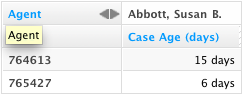
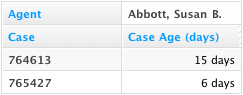
Fixed typos & screenshots in hyperlinked labels post

diff --git a/_posts/2011-01-13-adding-hyperlinks-to-attribute.md b/_posts/2011-01-13-adding-hyperlinks-to-attribute.md
@@ -1,16 +1,16 @@
 ---
-title: Adding Hyperlink to Your Attributes
+title: Adding Hyperlinks to Your Attributes
 excerpt: A short guide to using custom MAQL DDL to add hyperlinks your report headers, which can integrate with external applications
 layout: post
 ---
 
 # {{ page.title }}
 
-When analyzing data from online applications (Salesforce, Zendesk, etc.) it makes a lot of sense to set up some attributes to be clickable hyperlinks leading back to the original data. Take this example of Susan's open support tickets in Zendesk, along with the age of the tickets:
+When analyzing data from online applications (Salesforce, Zendesk, etc.), it makes a lot of sense to set up some attributes to be clickable hyperlinks leading back to the original data. Take this *example* of Susan's open support tickets in Zendesk, along with the age of the tickets:
 
 ![Open Tickets]({{ site.root }}/images/posts/2011-01-13-open-tickets.png)
 
-Wouldn't it be nice if you could click on the ID of the individual support ticket and open it directly back in Zendesk? Well let's have a look how we can get this done.
+Wouldn't it be nice if you could click on the ID of the individual support ticket and open it directly back in the original application? Well let's have a look at how we can get this done.
 
 First, we'll need to extend our original data with a new column `URL` containing the link for each ticket:
 
@@ -61,6 +61,8 @@ ExecuteMaql(maqlFile="update.maql");
 TransferData();
 {% endhighlight %}
 
-The same report as before now shows hyperlinks on each ticket ID that can be clicked to open a new window with the original ticket in Zendesk. If the window doesn't open for you, your browser is probably blocking pop-up windows and you might need to allow `secure.gooddata.com` to open popups (below is an example from Chrome).
+The same report as before now shows hyperlinks on each ticket ID that can be clicked to open a new window with the original ticket in Zendesk. 
 
-![Allow Popups]({{ site.root }}/images/posts/2011-01-13-allow-popups.png)
+![Hyperlinked Open Tickets]({{ site.root }}/images/posts/2011-01-13-open-tickets-hyperlinked.png)
+
+(**Note**: If the window doesn't open for you, your browser is probably blocking pop-up windows and you might need to allow `secure.gooddata.com` to open popups.)
